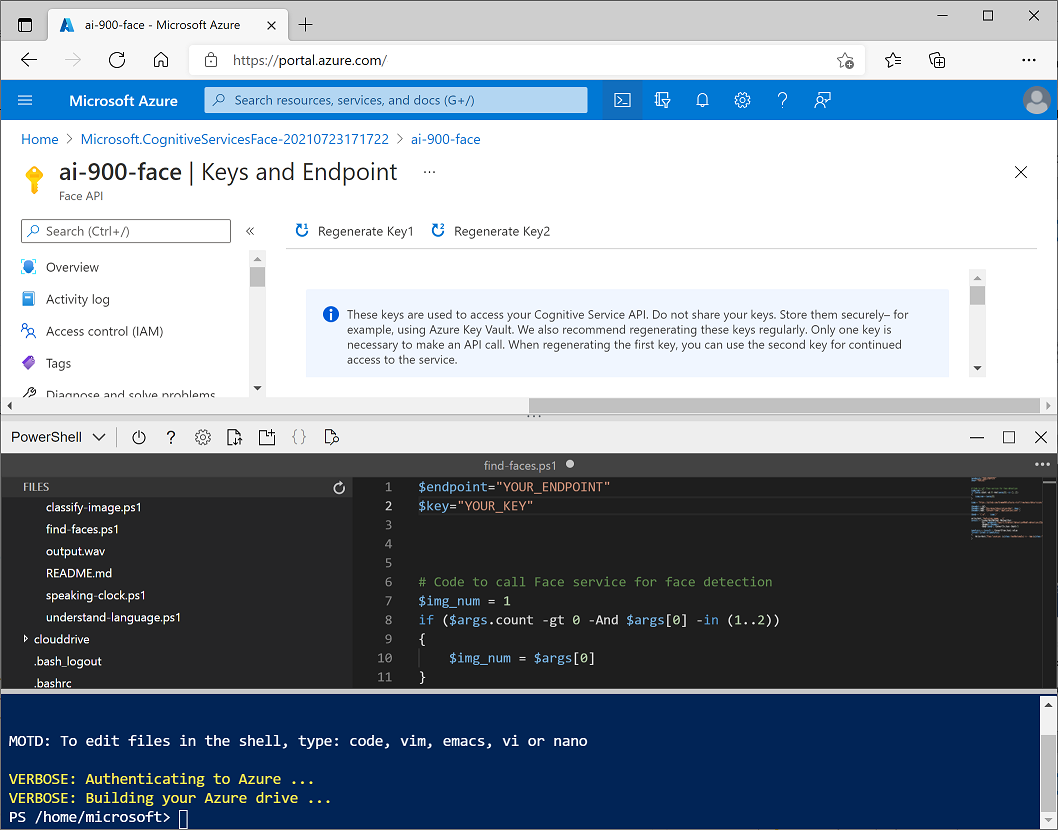
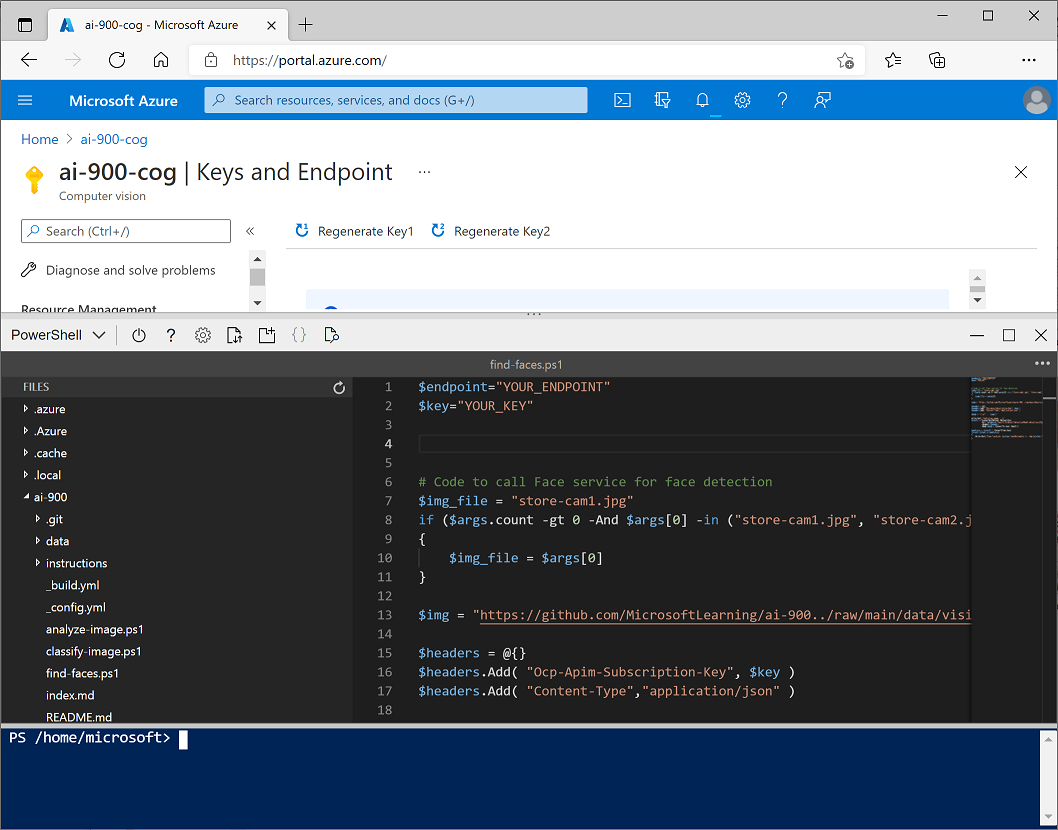
Updated images and paths

diff --git a/instructions/10-language-understanding.md b/instructions/10-language-understanding.md
@@ -42,9 +42,9 @@ To implement natural language understanding with Language Understanding, you cre
 
 An *intent* is an action you want to perform - for example, you might want to switch a light on, or turn a fan off. In this case, you'll define two intents: one to switch a device on, and another to switch a device off. For each intent, you'll specify sample *utterances* that indicate the kind of language used to indicate the intent.
 
-1. In the pane on the left, ensure that **Intents** is selected Then click **Create**, and add an intent with the name **switch_on** and click **Done**.
+1. In the pane on the left, ensure that **Intents** is selected Then click **Create**, and add an intent with the name **switch_on** (in lower-case) and click **Done**.
 2. Under the **Examples** heading and the **Example user input** subheading, type the utterance ***turn the light on*** and press **Enter** to submit this utterance to the list.
-3. In the *turn the light on* utterance, select the word "light". Then in the list that appears, in the *Enter an entity name* box type **device** and select ***device* Create new entity**, as shown here:
+3. In the *turn the light on* utterance, select the word "light". Then in the list that appears, in the *Enter an entity name* box type **device** (in lower-case) and select ***device* Create new entity**, as shown here:
 
     ![The work "Light" is selected and a menu provides the option to search for or create an entity](./media/create-intent.png)
 
@@ -53,7 +53,7 @@ An *intent* is an action you want to perform - for example, you might want to sw
     ![Create an Machine learned entity named device ](./media/create-entity.png)
 
 5. Back in the page for the **switch_on** intent, create a second utterance with the phrase ***switch on the fan***. Then select the word "fan" and assign it to the **device** entity you created previously.
-6. In the pane on the left, click **Intents** and verify that your **switch_on** intent is listed along with the default **None** intent, Then click **Create** and add a new intent with the name **switch_off**.
+6. In the pane on the left, click **Intents** and verify that your **switch_on** intent is listed along with the default **None** intent, Then click **Create** and add a new intent with the name **switch_off** (in lower-case).
 7. In the page for the **switch_off** intent, add the utterance ***turn the light off*** and assign the word "light" to the **device** entity.
 8. Add a second utterance to the **switch_off** intent, with the utterance ***switch off the fan***. Then connect the word "fan" to the **device** entity.
 
@@ -83,7 +83,7 @@ To consume your language model from a client, we'll use a simple command-line ap
 
 ## Create a cloud shell
 
-Firs, you'll need a clioud shell in which to run the app.
+First, you'll need a cloud shell in which to run the app.
 
 1. Switch to the browser tab containing the Azure portal, and select the [**>_**] (*Cloud Shell*) button at the top of the page to the right of the search box. This opens a Cloud Shell pane at the bottom of the portal, as shown here.
 
@@ -112,7 +112,7 @@ Now that you have a cloud shell environment, you can run a simple client applica
 
 3. Use the separator bar above the editor pane to resize it so you can see more clearly, and then in the **Files** pane on the left, expand **ai-900** and select **understand.ps1**. This file contains some code that uses your Custom Vision model to classify an image, as shown here:
 
-    ![The editor containing code to use a Language Understanding app](./media/classify-image-code.png)
+    ![The editor containing code to use a Language Understanding app](./media/understand-code.png)
 
 4. Don't worry too much about the details of the code, the important thing is that it needs the application ID, key, and endpoint URL for your published language model. Copy these from the **Manage** page in th Language Understanding portal (which should still be open in another browser tab) and paste them into the code editor, replacing the **YOUR_APP_ID**, **YOUR_PRIMARY_KEY** and **YOUR_ENDPOINT_URL** placeholder values respectively.
 
@@ -125,8 +125,18 @@ Now that you have a cloud shell environment, you can run a simple client applica
     ```
 
 5. At the top right of the editor pane, use the **...** button to open the menu and select **Save** to save your changes. Then open the menu again and select **Close Editor**.
-7. In the PowerShell pane, enter the following command to run the code:
+6. In the PowerShell pane, enter the following command to run the code:
 
     ```
-    .ai-900\understand.ps1 "Turn on the light"
+    .\ai-900\understand.ps1 "Turn on the light"
     ```
+
+7. Review the results - the app should have predicted that the intended action is to switch on the light.
+8. Now try another command:
+
+    ```
+    .\ai-900\understand.ps1 "Switch the fan off"
+    ```
+
+9. Review the results from this command- the app should have predicted that the intended action is to switch off the fan.
+10. Experiment with a few more commands; including commands that the model was not trained to support, such as "Hello" or "switch on the oven". The app should generally understand commands for which its language model is defined, and fail gracefully for other input.

diff --git a/instructions/04-face-detection.md b/instructions/04-face-detection.md
@@ -46,14 +46,14 @@ Now that you have a cloud shell environment, you can run a simple client applica
 1. In the command shell, enter the following command to download the sample application.
 
     ```
-    git clone https://github.com/GraemeMalcolm/ai-stuff
+    git clone https://github.com/GraemeMalcolm/ai-stuff ai-900
     ```
 
-2. The files are downloaded to a folder named **ai-stuff**. To see all of the files in your cloud shell storage, select the **{ }** (*Open editor*) icon on the bar at the top of the cloud shell pane. This opens an additional editor pane above the cloud shell pane, like this:
+2. The files are downloaded to a folder named **ai-900**. To see all of the files in your cloud shell storage, select the **{ }** (*Open editor*) icon on the bar at the top of the cloud shell pane. This opens an additional editor pane above the cloud shell pane, like this:
 
     ![Azure cloud shell editor](./media/editor-pane.png)
 
-3. Use the separator bar above the editor pane to resize it so you can see more clearly, and then in the **Files** pane on the left, expand **ai-stuff** and select **find-faces.ps1**. This file contains some code that uses the Face service to detect and analyze faces in an image, as shown here:
+3. Use the separator bar above the editor pane to resize it so you can see more clearly, and then in the **Files** pane on the left, expand **ai-900** and select **find-faces.ps1**. This file contains some code that uses the Face service to detect and analyze faces in an image, as shown here:
 
     ![The editor containing code to detect faces in an image](./media/find-faces.png)
 
@@ -74,11 +74,10 @@ Now that you have a cloud shell environment, you can run a simple client applica
 
     ![An image of a parent using a cellphone camera to take a picture of a child in in a store](./media/store-cam1.jpg)
 
-6. In the PowerShell pane, enter the following commands to run the code:
+6. In the PowerShell pane, enter the following command to run the code:
 
     ```
-    cd ai-stuff
-    .\find-faces.ps1 store-cam1.jpg
+    .\ai-900\find-faces.ps1 store-cam1.jpg
     ```
 
 7. Review the details of the faces found in the image, which include:
@@ -97,7 +96,7 @@ Now that you have a cloud shell environment, you can run a simple client applica
     To analyze the second image, enter the following command:
 
     ```
-    .\find-faces.ps1 store-cam2.jpg
+    .\ai-900\find-faces.ps1 store-cam2.jpg
     ```
 
 9. Review the results of the face analysis for the second image.
@@ -109,7 +108,7 @@ Now that you have a cloud shell environment, you can run a simple client applica
     To analyze the third image, enter the following command:
 
     ```
-    .\find-faces.ps1 store-cam3.jpg
+    .\ai-900\find-faces.ps1 store-cam3.jpg
     ```
 
 11. Review the results of the face analysis for the third image.

diff --git a/instructions/01-image-analysis.md b/instructions/01-image-analysis.md
@@ -48,14 +48,14 @@ Now that you have a cloud shell environment, you can run a simple client applica
 1. In the command shell, enter the following command to download the sample application.
 
     ```
-    git clone https://github.com/GraemeMalcolm/ai-stuff
+    git clone https://github.com/GraemeMalcolm/ai-stuff ai-900
     ```
 
-2. The files are downloaded to a folder named **ai-stuff**. To see all of the files in your cloud shell storage, select the **{ }** (*Open editor*) icon on the bar at the top of the cloud shell pane. This opens an additional editor pane above the cloud shell pane, like this:
+2. The files are downloaded to a folder named **ai-900**. To see all of the files in your cloud shell storage, select the **{ }** (*Open editor*) icon on the bar at the top of the cloud shell pane. This opens an additional editor pane above the cloud shell pane, like this:
 
     ![Azure cloud shell editor](./media/editor-pane.png)
 
-3. Use the separator bar above the editor pane to resize it so you can see more clearly, and then in the **Files** pane on the left, expand **ai-stuff** and select **analyze-image.ps1**. This file contains some code that uses the Computer Vision service to analyze an image, as shown here:
+3. Use the separator bar above the editor pane to resize it so you can see more clearly, and then in the **Files** pane on the left, expand **ai-900** and select **analyze-image.ps1**. This file contains some code that uses the Computer Vision service to analyze an image, as shown here:
 
     ![The editor containing code to analyze an image](./media/analyze-image-code.png)
 
@@ -76,11 +76,10 @@ Now that you have a cloud shell environment, you can run a simple client applica
 
     ![An image of a parent using a cellphone camera to take a picture of a child in in a store](./media/store-cam1.jpg)
 
-6. In the PowerShell pane, enter the following commands to run the code:
+6. In the PowerShell pane, enter the following command to run the code:
 
     ```
-    cd ai-stuff
-    .\analyze-image.ps1 store-cam1.jpg
+    .\ai-900\analyze-image.ps1 store-cam1.jpg
     ```
 
 7. Review the results of the image analysis, which include:
@@ -95,7 +94,7 @@ Now that you have a cloud shell environment, you can run a simple client applica
     To analyze the second image, enter the following command:
 
     ```
-    .\analyze-image.ps1 store-cam2.jpg
+    .\ai-900\analyze-image.ps1 store-cam2.jpg
     ```
 
 9. Review the results of the image analysis for the second image.
@@ -107,7 +106,7 @@ Now that you have a cloud shell environment, you can run a simple client applica
     To analyze the third image, enter the following command:
 
     ```
-    .\analyze-image.ps1 store-cam3.jpg
+    .\ai-900\analyze-image.ps1 store-cam3.jpg
     ```
 
 11. Review the results of the image analysis for the third image.

diff --git a/instructions/02-image-classification.md b/instructions/02-image-classification.md
@@ -103,14 +103,14 @@ Now that you have a cloud shell environment, you can run a simple client applica
 1. In the command shell, enter the following command to download the sample application.
 
     ```
-    git clone https://github.com/GraemeMalcolm/ai-stuff
+    git clone https://github.com/GraemeMalcolm/ai-stuff ai-900
     ```
 
-2. The files are downloaded to a folder named **ai-stuff**. To see all of the files in your cloud shell storage, select the **{ }** (*Open editor*) icon on the bar at the top of the cloud shell pane. This opens an additional editor pane above the cloud shell pane, like this:
+2. The files are downloaded to a folder named **ai-900**. To see all of the files in your cloud shell storage, select the **{ }** (*Open editor*) icon on the bar at the top of the cloud shell pane. This opens an additional editor pane above the cloud shell pane, like this:
 
     ![Azure cloud shell editor](./media/editor-pane.png)
 
-3. Use the separator bar above the editor pane to resize it so you can see more clearly, and then in the **Files** pane on the left, expand **ai-stuff** and select **classify-image.ps1**. This file contains some code that uses your Custom Vision model to classify an image, as shown here:
+3. Use the separator bar above the editor pane to resize it so you can see more clearly, and then in the **Files** pane on the left, expand **ai-900** and select **classify-image.ps1**. This file contains some code that uses your Custom Vision model to classify an image, as shown here:
 
     ![The editor containing code to classify an image](./media/classify-image-code.png)
 
@@ -134,8 +134,7 @@ Now that you have a cloud shell environment, you can run a simple client applica
 6. In the PowerShell pane, enter the following commands to run the code:
 
     ```
-    cd ai-stuff
-    .\classify-image.ps1 1
+    .\ai-900\classify-image.ps1 1
     ```
 
 7. Review the prediction, which should be **apple**.
@@ -143,7 +142,7 @@ Now that you have a cloud shell environment, you can run a simple client applica
 8. Now let's try another image:
 
     ```
-    .\classify-image.ps1 2
+    .\ai-900\classify-image.ps1 2
     ```
 
 9. Verify that the model classifies this image as **banana**.
@@ -151,7 +150,7 @@ Now that you have a cloud shell environment, you can run a simple client applica
 10. Finally, let's try the third test image:
 
     ```
-    .\classify-image.ps1 3
+    .\ai-900\classify-image.ps1 3
     ```
 
 11. Verify that the model classifies this image as **orange**.

diff --git a/instructions/08-speech.md b/instructions/08-speech.md
@@ -47,14 +47,14 @@ Now that you have a cloud shell environment, you can run a simple client applica
 1. In the command shell, enter the following command to download the sample application.
 
     ```
-    git clone https://github.com/GraemeMalcolm/ai-stuff
+    git clone https://github.com/GraemeMalcolm/ai-stuff ai-900
     ```
 
-2. The files are downloaded to a folder named **ai-stuff**. To see all of the files in your cloud shell storage, select the **{ }** (*Open editor*) icon on the bar at the top of the cloud shell pane. This opens an additional editor pane above the cloud shell pane, like this:
+2. The files are downloaded to a folder named **ai-900**. To see all of the files in your cloud shell storage, select the **{ }** (*Open editor*) icon on the bar at the top of the cloud shell pane. This opens an additional editor pane above the cloud shell pane, like this:
 
     ![Azure cloud shell editor](./media/editor-pane.png)
 
-3. Use the separator bar above the editor pane to resize it so you can see more clearly, and then in the **Files** pane on the left, expand **ai-stuff** and select **speaking-clock.ps1**. This file contains some code that uses the Speech service to recognize and synthesize speech:
+3. Use the separator bar above the editor pane to resize it so you can see more clearly, and then in the **Files** pane on the left, expand **ai-900** and select **speaking-clock.ps1**. This file contains some code that uses the Speech service to recognize and synthesize speech:
 
     ![The editor containing code to use the Speech service](./media/speaking-clock-code.png)
 
@@ -80,11 +80,10 @@ Now that you have a cloud shell environment, you can run a simple client applica
     Your browser does not support the audio element.
     </audio>
 
-6. In the PowerShell pane, enter the following commands to run the code:
+6. In the PowerShell pane, enter the following command to run the code:
 
     ```
-    cd ai-stuff
-    .\speaking-clock.ps1
+    .\ai-900\speaking-clock.ps1
     ```
 
 7. Review the output, which should have successfully recognized the text "What time is it?" and saved an appropriate response in a file named *output.wav*.
